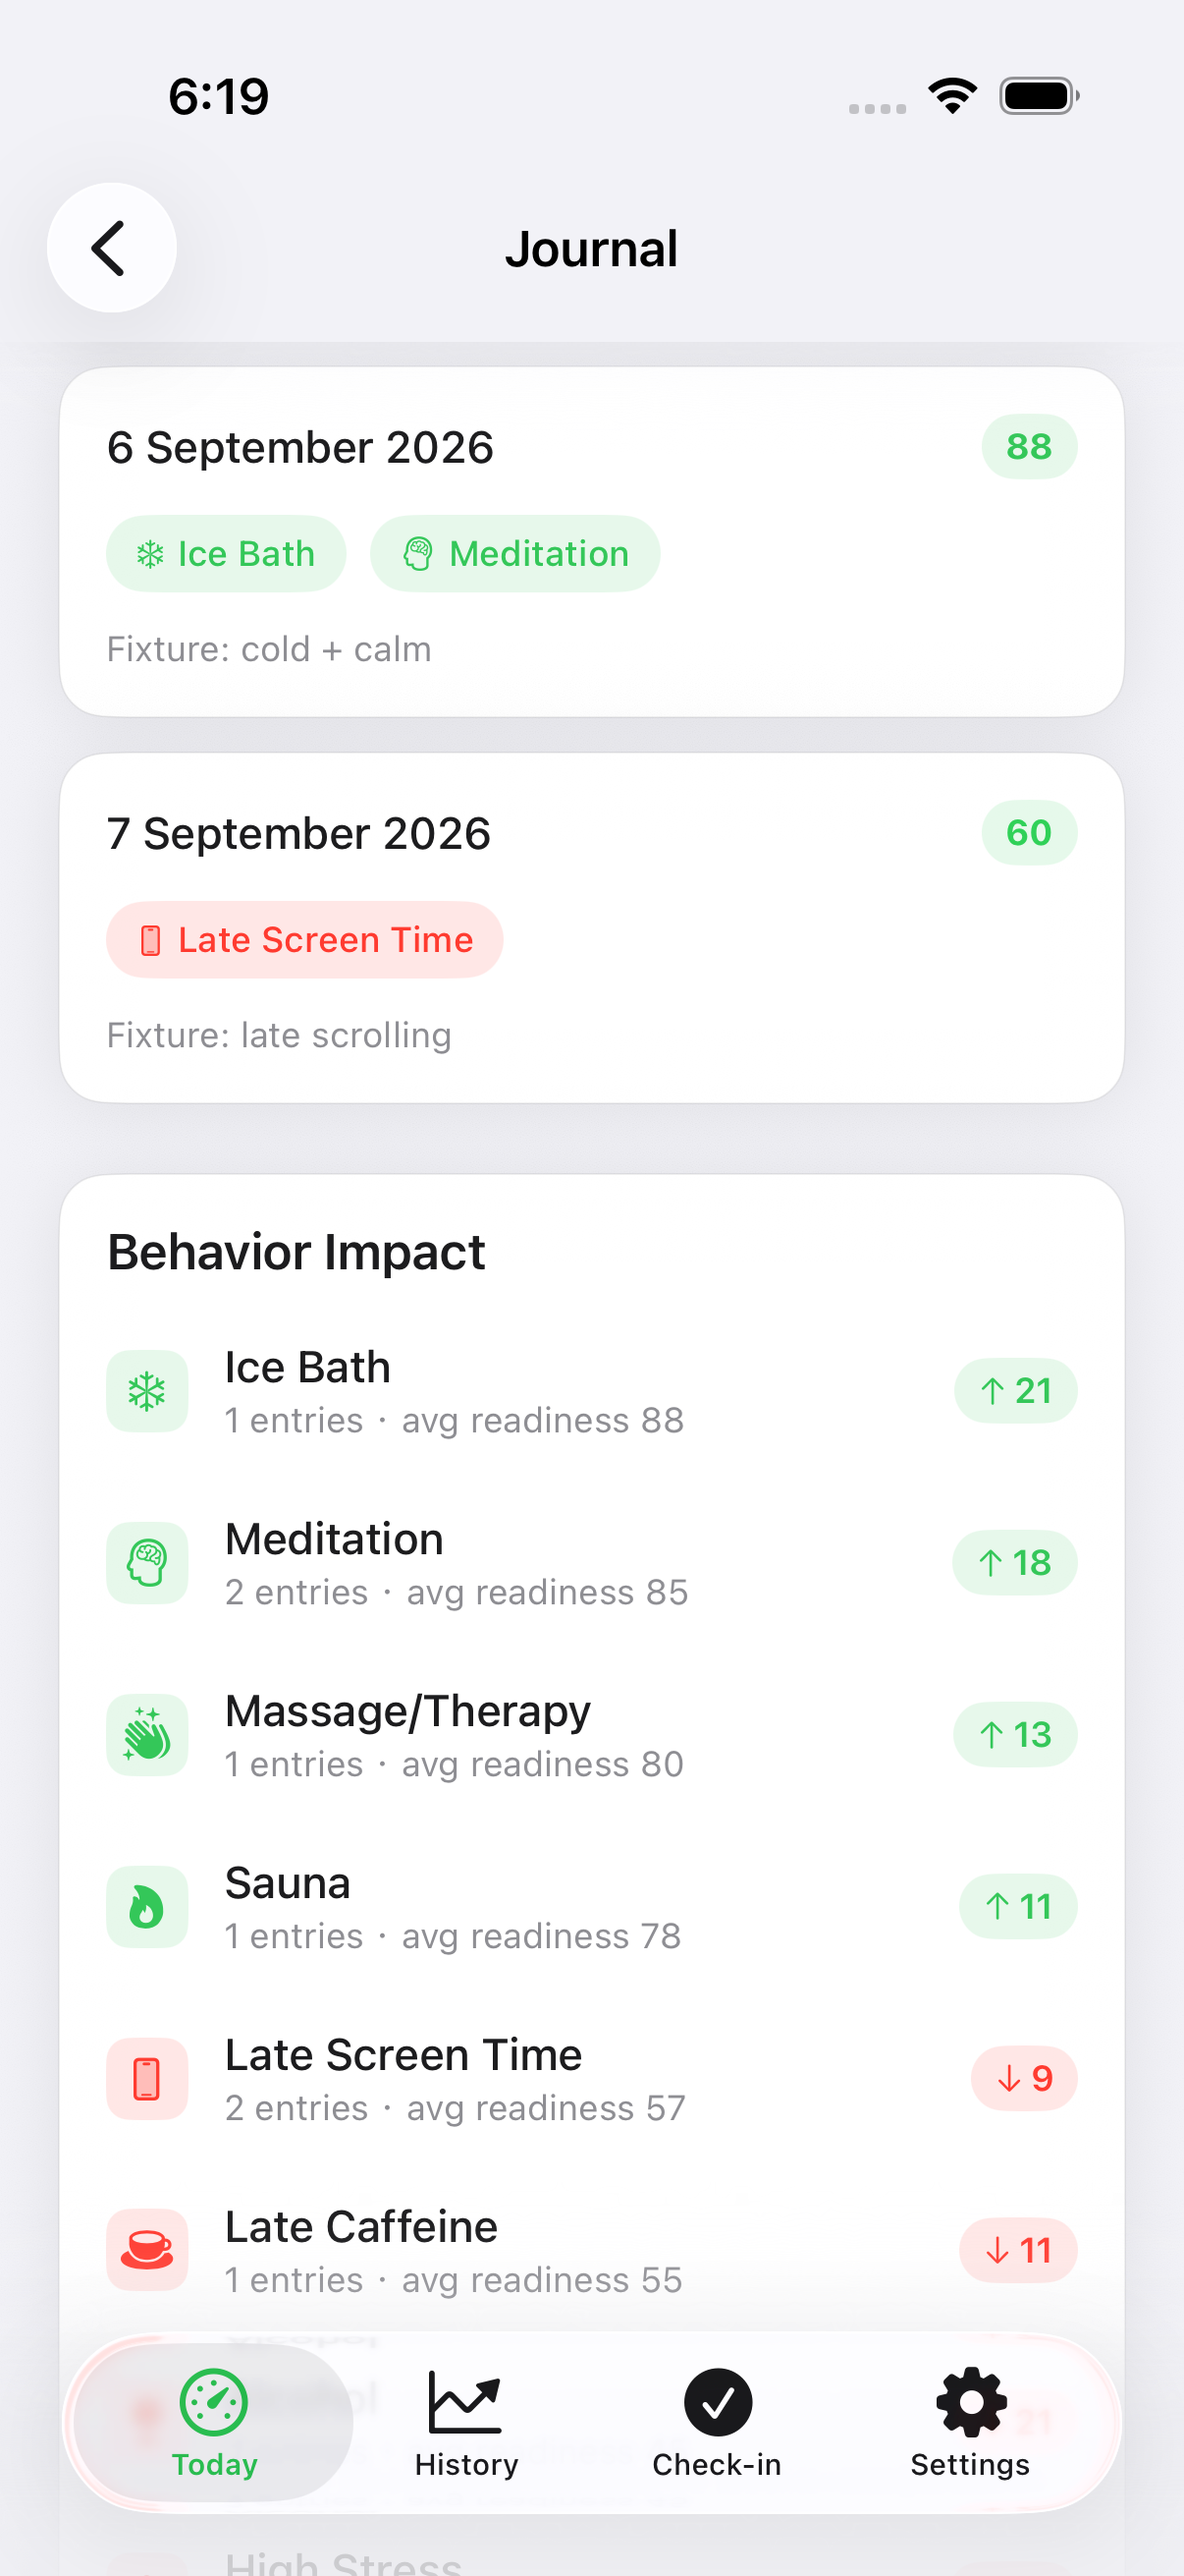
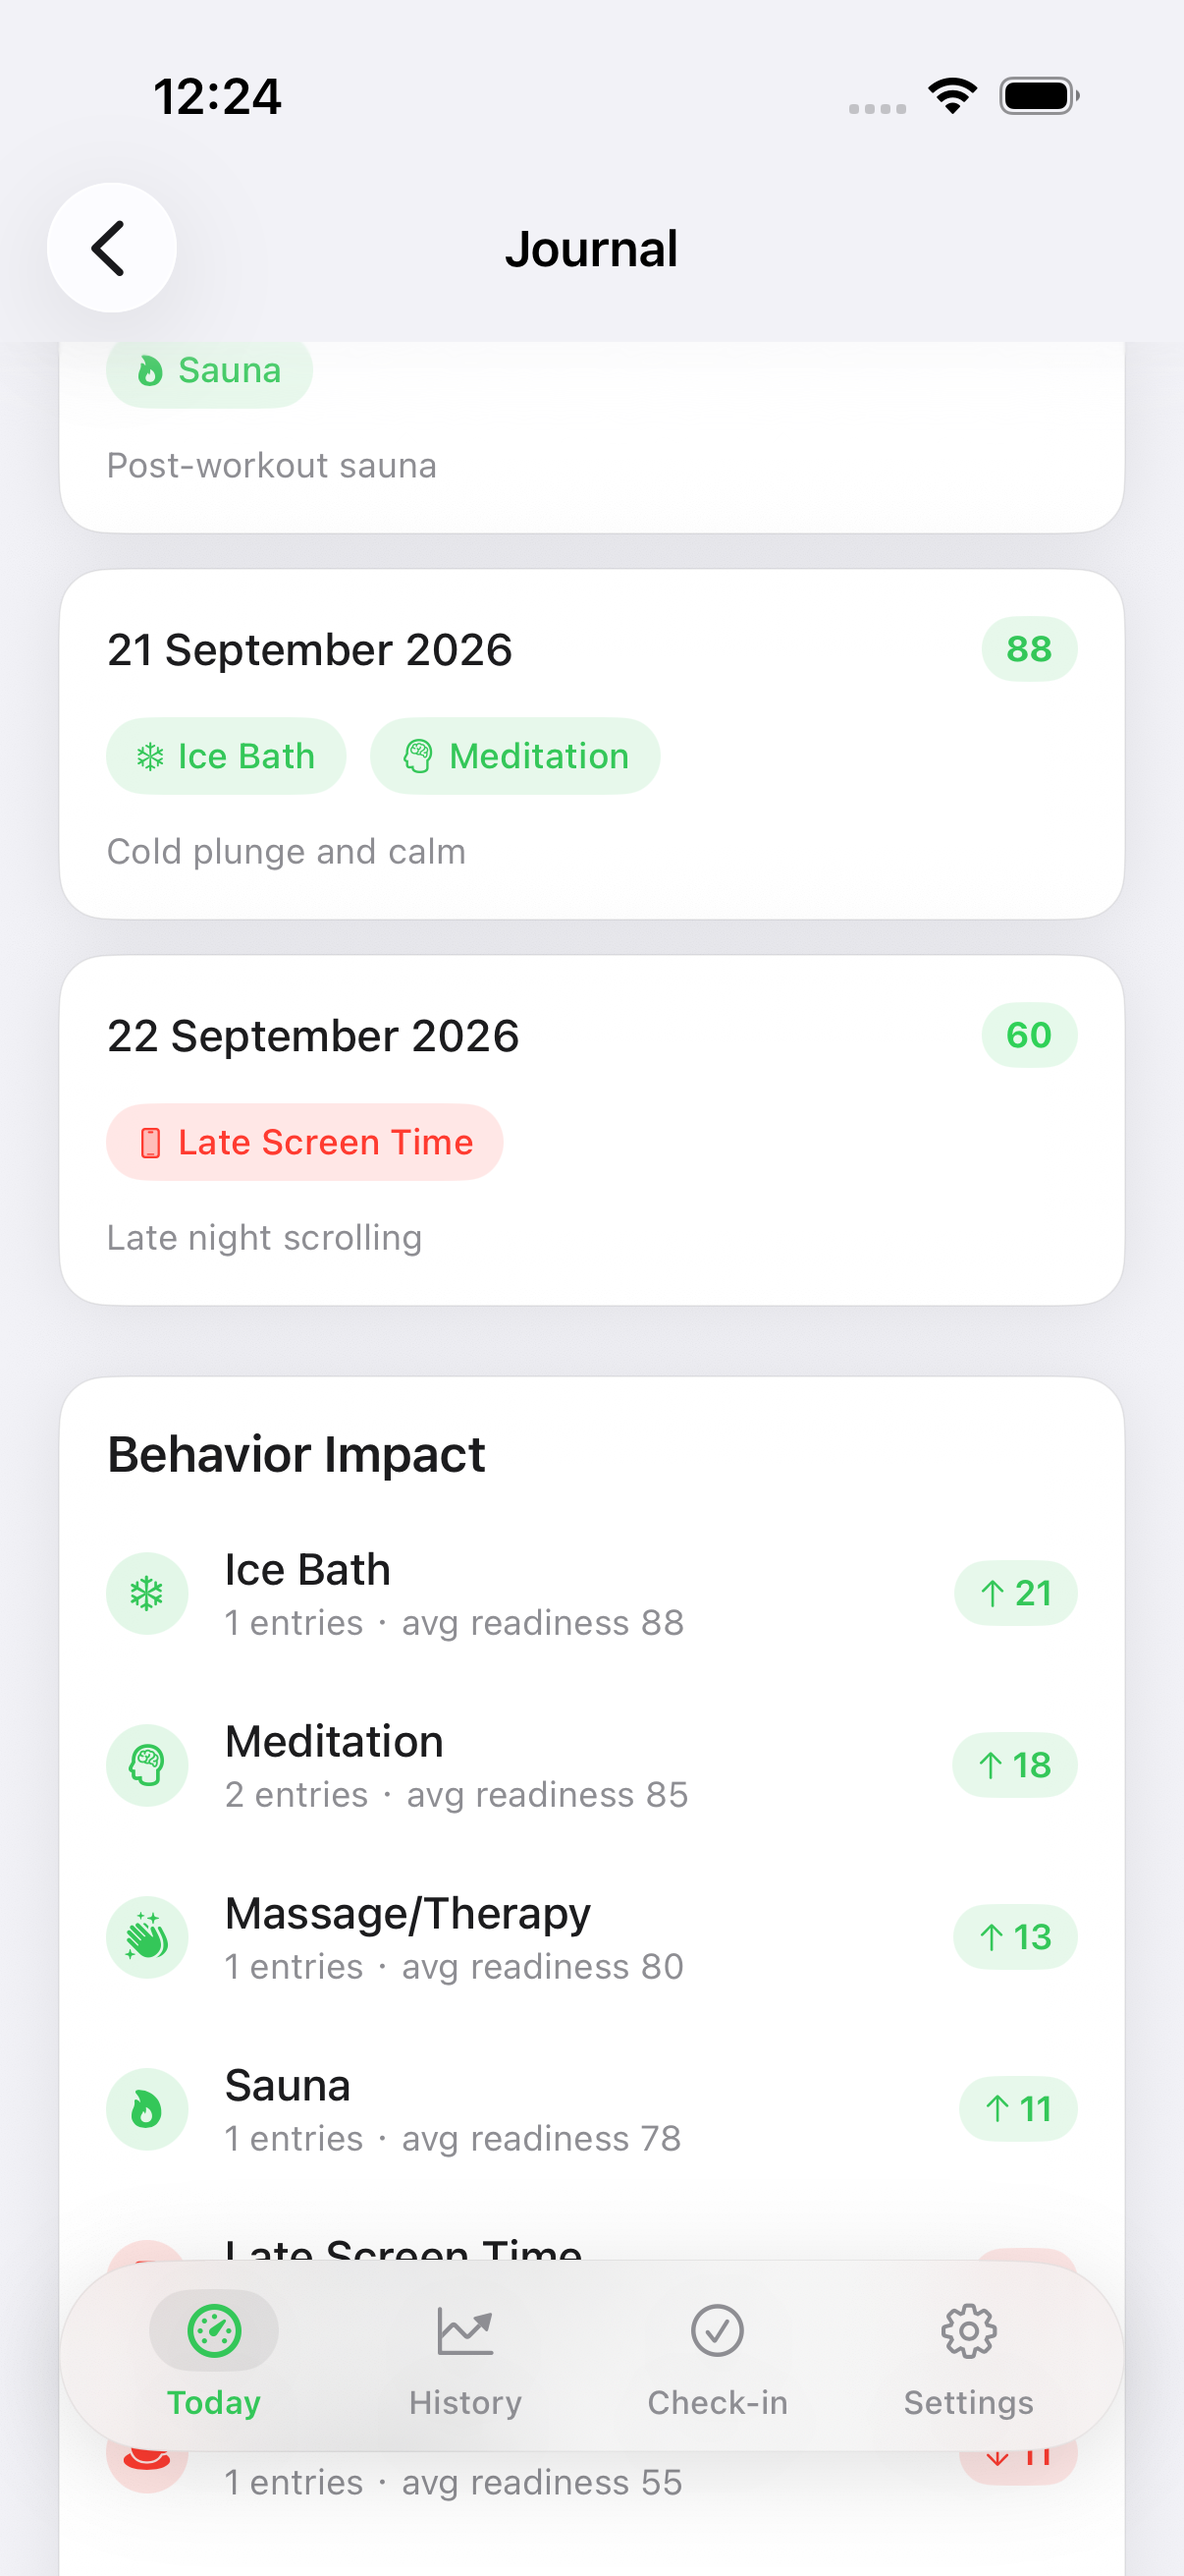
feat(journal): Apple Behavior Impact circular wells (Honest #82) (#100)
Circular tint wells on Journal Behavior Impact rows; refresh impact audit PNG.

diff --git a/ReadinessTracker/Views/JournalView.swift b/ReadinessTracker/Views/JournalView.swift
@@ -128,12 +128,14 @@ struct JournalView: View {
                 
                 ForEach(behaviorScores.sorted { $0.impact > $1.impact }, id: \.behavior) { item in
                     HStack(spacing: 12) {
+                        // Honest #82: Apple circular tint well on Journal Behavior Impact rows.
                         Image(systemName: item.icon)
-                            .font(.system(size: 14))
+                            .font(.system(size: 12, weight: .semibold))
                             .foregroundStyle(item.color)
                             .frame(width: 28, height: 28)
-                            .background(item.color.opacity(0.12))
-                            .clipShape(RoundedRectangle(cornerRadius: 8, style: .continuous))
+                            .background(item.color.opacity(0.14))
+                            .clipShape(Circle())
+                            .accessibilityHidden(true)
                         
                         VStack(alignment: .leading, spacing: 2) {
                             Text(item.behavior)

diff --git a/ReadinessTrackerUITests/SurfacesUITests.swift b/ReadinessTrackerUITests/SurfacesUITests.swift
@@ -392,6 +392,7 @@ final class SurfacesUITests: XCTestCase {
     }
 
     func testJournalImpactSurface() throws {
+        // Honest #82: Journal Behavior Impact row circular tint wells.
         // Journal Behavior Impact chart under -ui-fixture (≥7 seeded entries with readiness scores).
         revealText("Journal")
         let journalRow = app.buttons["Journal"].exists ? app.buttons["Journal"] : app.staticTexts["Journal"]

diff --git a/.cursor/skills/verify-readiness-tracker/features/journal-behavior-wells.md b/.cursor/skills/verify-readiness-tracker/features/journal-behavior-wells.md
@@ -1,0 +1,19 @@
+# Journal Behavior Impact wells
+
+## Sub-features
+- Behavior Impact list on Journal
+- Leading SF Symbol circular tint wells (was rounded rect)
+- Tag capsules stay capsules (Apple chip pattern)
+
+## How to get to it (user POV)
+1. Today → Journal
+2. With ≥7 entries, see Behavior Impact
+3. Each behavior row uses a circular tint well
+
+## Driving it with the harness
+- UITest: `SurfacesUITests.testJournalImpactSurface`
+- Captures `.audit/verify-journal-impact.png`
+
+## Gotchas
+- Keep up/down impact Capsule
+- Do not invent Fitness+ chrome

diff --git a/.cursor/skills/verify-readiness-tracker/features/README.md b/.cursor/skills/verify-readiness-tracker/features/README.md
@@ -15,3 +15,4 @@
 | Day Detail wells | `day-detail-wells.md` | Stage/metric circular wells |
 | Metric Detail hero well | `metric-detail-hero-well.md` | Hero circular well |
 | Readiness Detail wells | `readiness-detail-wells.md` | Rec + component circular wells |
+| Journal Behavior Impact wells | `journal-behavior-wells.md` | Impact row circular wells |
